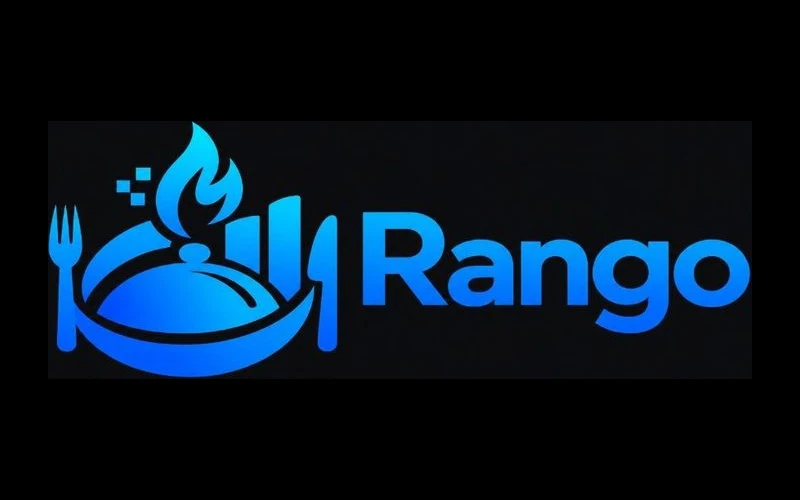
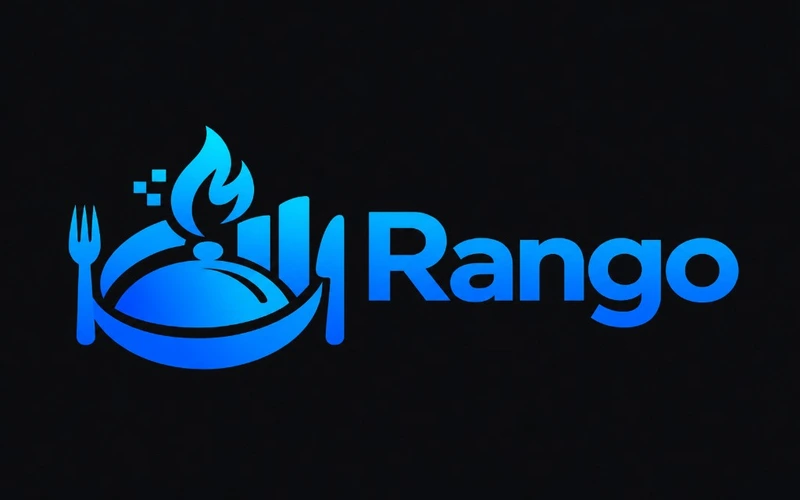
fix: atualiza capas do Correria e do Rango no enquadramento padrão

Changed region(s): [[0.0625, 0.24, 0.9375, 0.78]]

diff --git a/src/styles/_projects.scss b/src/styles/_projects.scss
@@ -56,14 +56,6 @@ mat-card.project-card {
   transform: scale(1.18);
 }
 
-.shot[data-shot='correria'] img {
-  transform: scale(1.28);
-}
-
-.shot[data-shot='rango'] img {
-  transform: scale(1.9);
-}
-
 .shot img,
 .shot-fallback {
   width: 100%;
